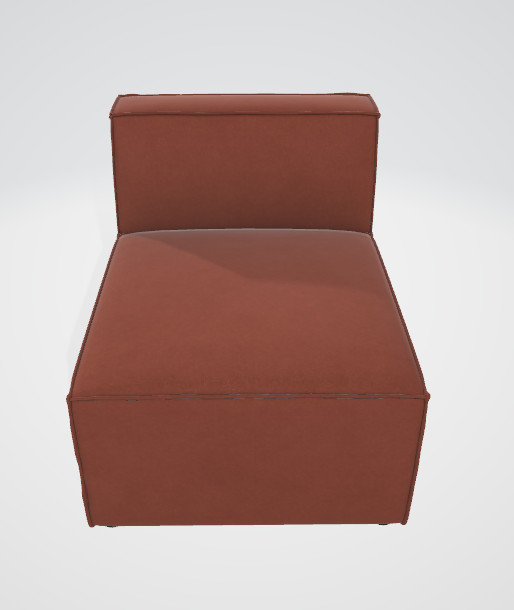
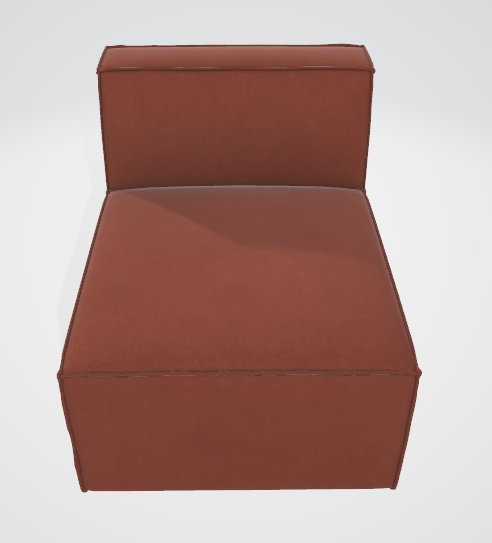
Adding draggable images.

Changed region(s): [[0.0915, 0.0589, 0.8537, 0.9134]]

diff --git a/src/components/menu/Menu.js b/src/components/menu/Menu.js
@@ -1,111 +1,191 @@
-import React from "react";
+import React, { useEffect, useRef } from "react";
 import CofigureModelPart from "../../3d/3dUtils/CofigureModelPart";
 // import ColorHelper from "../../3d/3dUtils/ColorHelper";
+import { dragStart, dragEnd } from "../../helpers/DragHelper";
 import Store from "../../store/Store";
 
 function Menu() {
-  function changeModel(modelName) {
-    console.log(modelName);
-    let loadedModels = Store.loadedModels;
-    let model = loadedModels.find((m) => m === modelName);
+  const dragImg = useRef(null);
 
-    if (model) {
-      alert(`Model: ${modelName} is already added!`);
-      return;
-    }
+  function addModel(modelName) {
+    const scene = Store.scene;
+    let add = true;
+
+    const model = scene.children.find((item) => {
+      return item.name === "corner" || item.name === "leftSeat";
+    });
+
     console.log(model);
-    if (model === "leftSeat" && modelName === "corner") {
-      alert(`Can't add ${modelName}`);
-      return;
+
+    scene.children.forEach((item) => {
+      if (item.isGroup && item.name === modelName) {
+        console.log(modelName);
+        add = false;
+      }
+    });
+
+    if (
+      (model?.name === "corner" && modelName === "leftSeat") ||
+      (model?.name === "leftSeat" && modelName === "corner")
+    ) {
+      add = false;
     }
 
-    CofigureModelPart.loadModel(modelName, Store.scene);
-    Store.loadedModels.push(modelName);
+    console.log(add);
+
+    add && CofigureModelPart.loadModel(modelName, scene);
   }
 
   // function changeColor() {
   //   ColorHelper.changeColor();
   // }
 
+  useEffect(() => {
+    if (dragImg.current !== null) {
+      console.log(dragImg.current);
+      let dragElement = dragImg.current;
+      dragElement.addEventListener("dragstart", dragStart);
+      dragElement.addEventListener("dragend", dragEnd);
+    }
+  }, []);
+
   return (
     <div
       style={{
-        width: "100%",
+        width: "40%",
         marginTop: "20px",
         display: "flex",
+        flexDirection: "column",
         justifyContent: "space-around",
+        alignItems: "center",
       }}
       className="menu"
     >
-      <div className="menu-content">
-        <div
-          style={{
-            marginTop: "10px",
-            display: "flex",
-            justifyContent: "center",
-          }}
-          className="button-container"
-        >
-          <button
-            style={{ width: "100px", height: "100px" }}
-            className="change-model"
-            onClick={() => changeModel("leftSeat")}
+      <div
+        style={{
+          width: "100%",
+          display: "flex",
+          justifyContent: "space-around",
+        }}
+      >
+        <div className="menu-content">
+          <div
+            style={{
+              marginTop: "10px",
+              display: "flex",
+              justifyContent: "center",
+            }}
+            className="button-container"
           >
-            <img style={{ width: "100%" }} src="leftSeat.png" alt="model"></img>
-          </button>
-        </div>
+            <button
+              style={{ width: "100px", height: "100px" }}
+              className="change-model"
+              onClick={() => addModel("singleSeat")}
+            >
+              <img
+                ref={dragImg}
+                draggable="true"
+                style={{ width: "100%" }}
+                src="singleSeat.png"
+                alt="model"
+              ></img>
+            </button>
+          </div>
 
-        <p style={{ textAlign: "center" }} className="add-model">
-          Add Left Seat
-        </p>
+          <p style={{ textAlign: "center" }} className="add-model">
+            Add single Seat
+          </p>
+        </div>
+        <div className="menu-content">
+          <div
+            style={{
+              marginTop: "10px",
+              display: "flex",
+              justifyContent: "center",
+            }}
+            className="button-container"
+          >
+            <button
+              style={{ width: "100px", height: "100px" }}
+              className="change-model"
+              onClick={() => addModel("leftSeat")}
+            >
+              <img
+                ref={dragImg}
+                style={{ width: "100%" }}
+                src="leftSeat.png"
+                alt="model"
+              ></img>
+            </button>
+          </div>
+
+          <p style={{ textAlign: "center" }} className="add-model">
+            Add Left Seat
+          </p>
+        </div>
       </div>
-      <div className="menu-content">
-        <div
-          style={{
-            marginTop: "10px",
-            display: "flex",
-            justifyContent: "center",
-          }}
-          className="button-container"
-        >
-          <button
-            style={{ width: "100px", height: "100px" }}
-            className="change-model"
-            onClick={() => changeModel("rightSeat")}
-          >
-            <img
-              style={{ width: "100%" }}
-              src="rightSeat.png"
-              alt="model"
-            ></img>
-          </button>
-        </div>
 
-        <p style={{ textAlign: "center" }} className="add-model">
-          Add Right Seat
-        </p>
-      </div>
-      <div className="menu-content">
-        <div
-          style={{
-            marginTop: "10px",
-            display: "flex",
-            justifyContent: "center",
-          }}
-          className="button-container"
-        >
-          <button
-            style={{ width: "100px", height: "100px" }}
-            className="change-model"
-            onClick={() => changeModel("corner")}
+      <div
+        style={{
+          width: "100%",
+          display: "flex",
+          justifyContent: "space-around",
+        }}
+      >
+        <div className="menu-content">
+          <div
+            style={{
+              marginTop: "10px",
+              display: "flex",
+              justifyContent: "center",
+            }}
+            className="button-container"
           >
-            <img style={{ width: "100%" }} src="corner.png" alt="model"></img>
-          </button>
-        </div>
+            <button
+              style={{ width: "100px", height: "100px" }}
+              className="change-model"
+              onClick={() => addModel("rightSeat")}
+            >
+              <img
+                ref={dragImg}
+                style={{ width: "100%" }}
+                src="rightSeat.png"
+                alt="model"
+              ></img>
+            </button>
+          </div>
 
-        <p style={{ textAlign: "center" }} className="add-model">
-          Add corner
-        </p>
+          <p style={{ textAlign: "center" }} className="add-model">
+            Add Right Seat
+          </p>
+        </div>
+        <div className="menu-content">
+          <div
+            style={{
+              marginTop: "10px",
+              display: "flex",
+              justifyContent: "center",
+            }}
+            className="button-container"
+          >
+            <button
+              style={{ width: "100px", height: "100px" }}
+              className="change-model"
+              onClick={() => addModel("corner")}
+            >
+              <img
+                ref={dragImg}
+                style={{ width: "100%" }}
+                src="singleCorner.png"
+                alt="model"
+              ></img>
+            </button>
+          </div>
+
+          <p style={{ textAlign: "center" }} className="add-model">
+            Add corner
+          </p>
+        </div>
       </div>
     </div>
   );

diff --git a/src/3d/sceneHelper.js b/src/3d/sceneHelper.js
@@ -3,9 +3,6 @@ import Controls from "./3dUtils/ControlsHelper";
 import Renderer from "./3dUtils/InitializeRenderer";
 import Light from "./3dUtils/LightHelper";
 import Camera from "./3dUtils/CameraHelper";
-
-import Loader from "./3dUtils/LoadHelper";
-
 import Store from "../store/Store";
 
 class Viewer3D {
@@ -27,8 +24,6 @@ class Viewer3D {
     Light.addLight(scene);
 
     Controls.initializeControls(camera, renderer);
-
-    Loader.loadModel("singleSeat", scene);
 
     function animate() {
       requestAnimationFrame(animate);

diff --git a/src/3d/3dUtils/CofigureModelPart.js b/src/3d/3dUtils/CofigureModelPart.js
@@ -22,7 +22,9 @@ class ConfigureModel {
       modelUrl,
       (gltf) => {
         model = gltf.scene;
+        model.name = newModel;
         scene.add(model);
+        console.log(scene);
       },
       function (xhr) {
         console.log((xhr.loaded / xhr.total) * 100 + "% loaded");

diff --git a/src/helpers/DragHelper.js b/src/helpers/DragHelper.js
@@ -1,0 +1,10 @@
+export function dragStart() {
+  console.log("start");
+  //   let dragItem = this;
+  //   setTimeout(() => (this.style.display = "none"), 0);
+}
+
+export function dragEnd() {
+  console.log("end");
+  //   setTimeout(() => (this.style.display = "none"), 0);
+}

diff --git a/src/App.css b/src/App.css
@@ -1,9 +1,11 @@
-@media(min-width: 999px) {
+@media (min-width: 999px) {
   .threeAndMenu {
     display: flex;
   }
 
   .webgl {
-    width: 70%;
+    margin-left: 50px;
+    width: 60%;
+    height: 60vh;
   }
 }

diff --git a/src/mockData/modelUrls.js b/src/mockData/modelUrls.js
@@ -15,6 +15,6 @@ export const ModelUrls = {
     modelUrl: "models/singleSeatBrick.glb",
   },
   corner: {
-    modelUrl: "models/corner+sofa+brick.glb",
+    modelUrl: "models/corner.glb",
   },
 };
